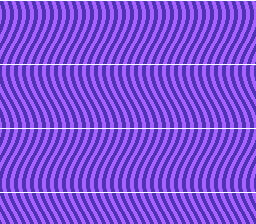
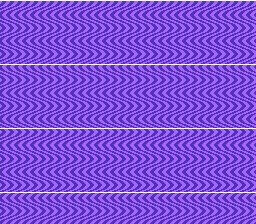
fix(examples): hdma_wave_table — match krom's wave period and scroll direction
The first cut used a 112-line sine period: a slow swell bearing no
resemblance to the reference. krom's actual table has a ~26-line period
(samples 0,2,5,7,8,9,10,10,... — his generator's period was non-integer,
hence his 672-line seamless wrap); ours is now round(10*sin(2*pi*i/26)),
the closest integer period — same amplitude, same tight water-ripple
look (~8.6 crests per screen), same 1-entry-per-frame animation rate,
and the integer period wraps in 26 lines instead of 672.

Also corrected the motion claim: advancing the table start pointer moves
each crest to L = X0 - phase, i.e. the ripple flows UP one scanline per
frame (in the original too, by construction) — the brief said 'descend'.
Screenshot + visual/WRAM baselines regenerated (clean corpus).

diff --git a/examples/graphics/effects/hdma_wave_table/main.c b/examples/graphics/effects/hdma_wave_table/main.c
@@ -5,8 +5,9 @@
  *
  * Builds an HDMA table BY HAND in C and animates it the way the original
  * assembler demo does: the table is written once, and each VBlank the
- * table START POINTER advances one entry — the wave scrolls down the
- * screen without a single byte of the table being rewritten. This is the
+ * table START POINTER advances one entry — the ripple pattern flows up
+ * the screen (line L reads entry phase+L, so each crest sits at
+ * X0-phase) without a single byte of the table being rewritten. This is the
  * classic per-scanline effect that plain DMA cannot do: one BG1 horizontal
  * scroll value per line, traced along a sine.
  *
@@ -33,7 +34,8 @@
  *   tilemap upload — the whole example ships zero binary assets
  *
  * @par What to Observe
- * - Vertical stripes distorted into a sine wave that scrolls DOWNWARD
+ * - Vertical stripes distorted into tight sine ripples flowing UPWARD
+ *   at one scanline per frame (krom's exact animation rate)
  * - White horizontal ruler lines every 64px stay perfectly straight
  *   (HOFS only shifts lines horizontally) while the verticals undulate
  * - No flicker or black lines: the table always covers 224 lines from
@@ -50,8 +52,10 @@
 
 /** @brief Visible scanlines fed by the HDMA table */
 #define NLINES        224
-/** @brief Wave period in scanlines (one full sine every 112 lines) */
-#define WAVE_PERIOD   112
+/** @brief Wave period in scanlines — krom's tight water-ripple look.
+ *  (His exact samples drift slightly because his generator's period was
+ *  not an integer; 26 is the closest integer period, same amplitude.) */
+#define WAVE_PERIOD   26
 /** @brief Bytes per HDMA entry in 1REG_2X mode: count + 16-bit value */
 #define ENTRY_BYTES   3
 
@@ -63,18 +67,15 @@
 /**
  * @brief One sine period of BG1HOFS offsets, amplitude ±10 px.
  *
- * round(10 * sin(2*pi*i / 112)) for i in [0..111] — same amplitude as
- * krom's original table. Kept as data (not computed) so the example has
- * no dependency on the math module and the table build stays trivial.
+ * round(10 * sin(2*pi*i / 26)) for i in [0..25] — same amplitude and
+ * (integer-rounded) period as krom's original table, giving the same
+ * tight water-ripple look (~8.6 wave crests down a 224-line screen).
+ * Kept as data (not computed) so the example has no dependency on the
+ * math module and the table build stays trivial.
  */
 static const s8 wave_sine[WAVE_PERIOD] = {
-      0,   1,   1,   2,   2,   3,   3,   4,   4,   5,   5,   6,   6,   7,   7,   7,
-      8,   8,   8,   9,   9,   9,   9,  10,  10,  10,  10,  10,  10,  10,  10,  10,
-     10,  10,   9,   9,   9,   9,   8,   8,   8,   7,   7,   7,   6,   6,   5,   5,
-      4,   4,   3,   3,   2,   2,   1,   1,   0,  -1,  -1,  -2,  -2,  -3,  -3,  -4,
-     -4,  -5,  -5,  -6,  -6,  -7,  -7,  -7,  -8,  -8,  -8,  -9,  -9,  -9,  -9, -10,
-    -10, -10, -10, -10, -10, -10, -10, -10, -10, -10,  -9,  -9,  -9,  -9,  -8,  -8,
-     -8,  -7,  -7,  -7,  -6,  -6,  -5,  -5,  -4,  -4,  -3,  -3,  -2,  -2,  -1,  -1,
+      0,   2,   5,   7,   8,   9,  10,  10,   9,   8,   7,   5,   2,
+      0,  -2,  -5,  -7,  -8,  -9, -10, -10,  -9,  -8,  -7,  -5,  -2,
 };
 
 /**
@@ -82,7 +83,9 @@ static const s8 wave_sine[WAVE_PERIOD] = {
  *
  * (NLINES + WAVE_PERIOD) entries so that from ANY start phase in
  * [0, WAVE_PERIOD) there are always >= NLINES valid entries ahead —
- * krom's trick (his table is 224+672 entries for the same reason).
+ * krom's trick (his table is 224+672 entries: his generator's period
+ * was non-integer, so his seamless wrap needed 672 lines; our integer
+ * 26-line period wraps in 26).
  * The trailing 0x00 terminator is belt-and-braces: with the invariant
  * above HDMA never reaches it, but it makes constant tweaks safe.
  */

diff --git a/examples/graphics/effects/hdma_wave_table/README.md b/examples/graphics/effects/hdma_wave_table/README.md
@@ -4,8 +4,8 @@
 
 Builds a raw HDMA table by hand in C and animates it krom-style: the table is
 written once, and each VBlank only the table **start pointer** advances by one
-entry — the sine wave scrolls down the screen without rewriting a single table
-byte. This is the classic per-scanline effect plain DMA cannot do: a different
+entry — the ripple pattern flows up the screen without rewriting a single
+table byte. This is the classic per-scanline effect plain DMA cannot do: a different
 BG1 horizontal scroll value on every line.
 
 C port of "SNES Wave HDMA Demo" by krom (Peter Lemon),
@@ -26,7 +26,7 @@ the low-level counterpart that teaches the HDMA **table format** itself.
   frame): the table is immutable, so HDMA never sees a partial entry — no
   tearing, near-zero CPU cost
 - The 224+period entry layout: from any start phase there are always ≥224 valid
-  entries ahead (krom's 224+672 trick)
+  entries ahead (krom's 224+672 trick — our integer 26-line period wraps in 26)
 - Procedural 4bpp tile generation in C (planar format) and row-buffer tilemap
   upload
 
